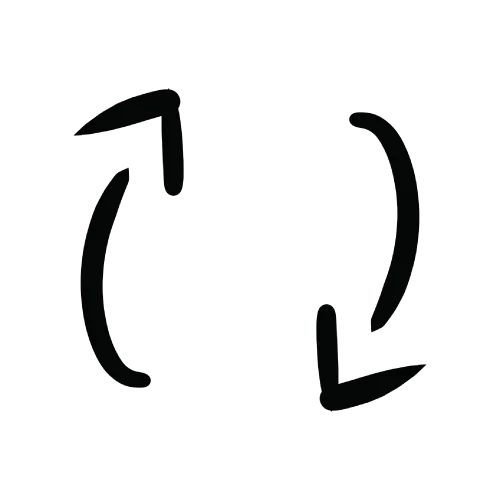
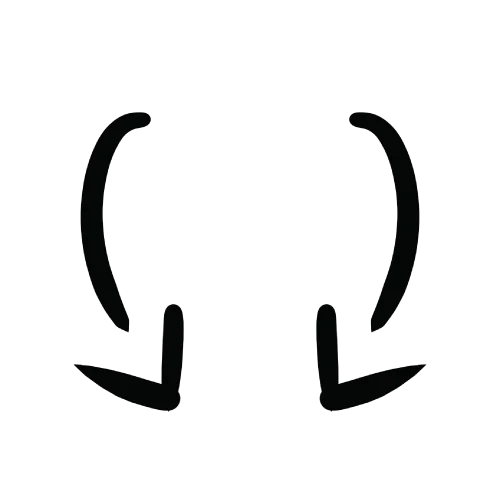
update

Changed region(s): [[0.15, 0.18, 0.39, 0.84]]

diff --git a/source/client/regroupchickenarmy.ts b/source/client/regroupchickenarmy.ts
@@ -160,7 +160,7 @@ export class RegroupChickenArmy extends CommonMixer(Gamegui) {
   override async onEnteringState(
     ...[stateName, _state]: BGA.GameStateTuple<["name", "state"]>
   ): Promise<void> {
-    logger.info("Entering state: " + stateName);
+    logger.debug("Entering state: " + stateName);
 
 
     this.board.isActive = this.isCurrentPlayerActive();

diff --git a/source/client/utils/listenerElement.ts b/source/client/utils/listenerElement.ts
@@ -86,7 +86,7 @@ export abstract class ListenerElement extends GameElement {
     }
 
     public override destroy() {
-        console.log(`Destroying ${this.consoleId}`);
+        logger.debug(`Destroying ${this.consoleId}`);
         this.unsubscribeAll();
         try {
             this.element.remove();
